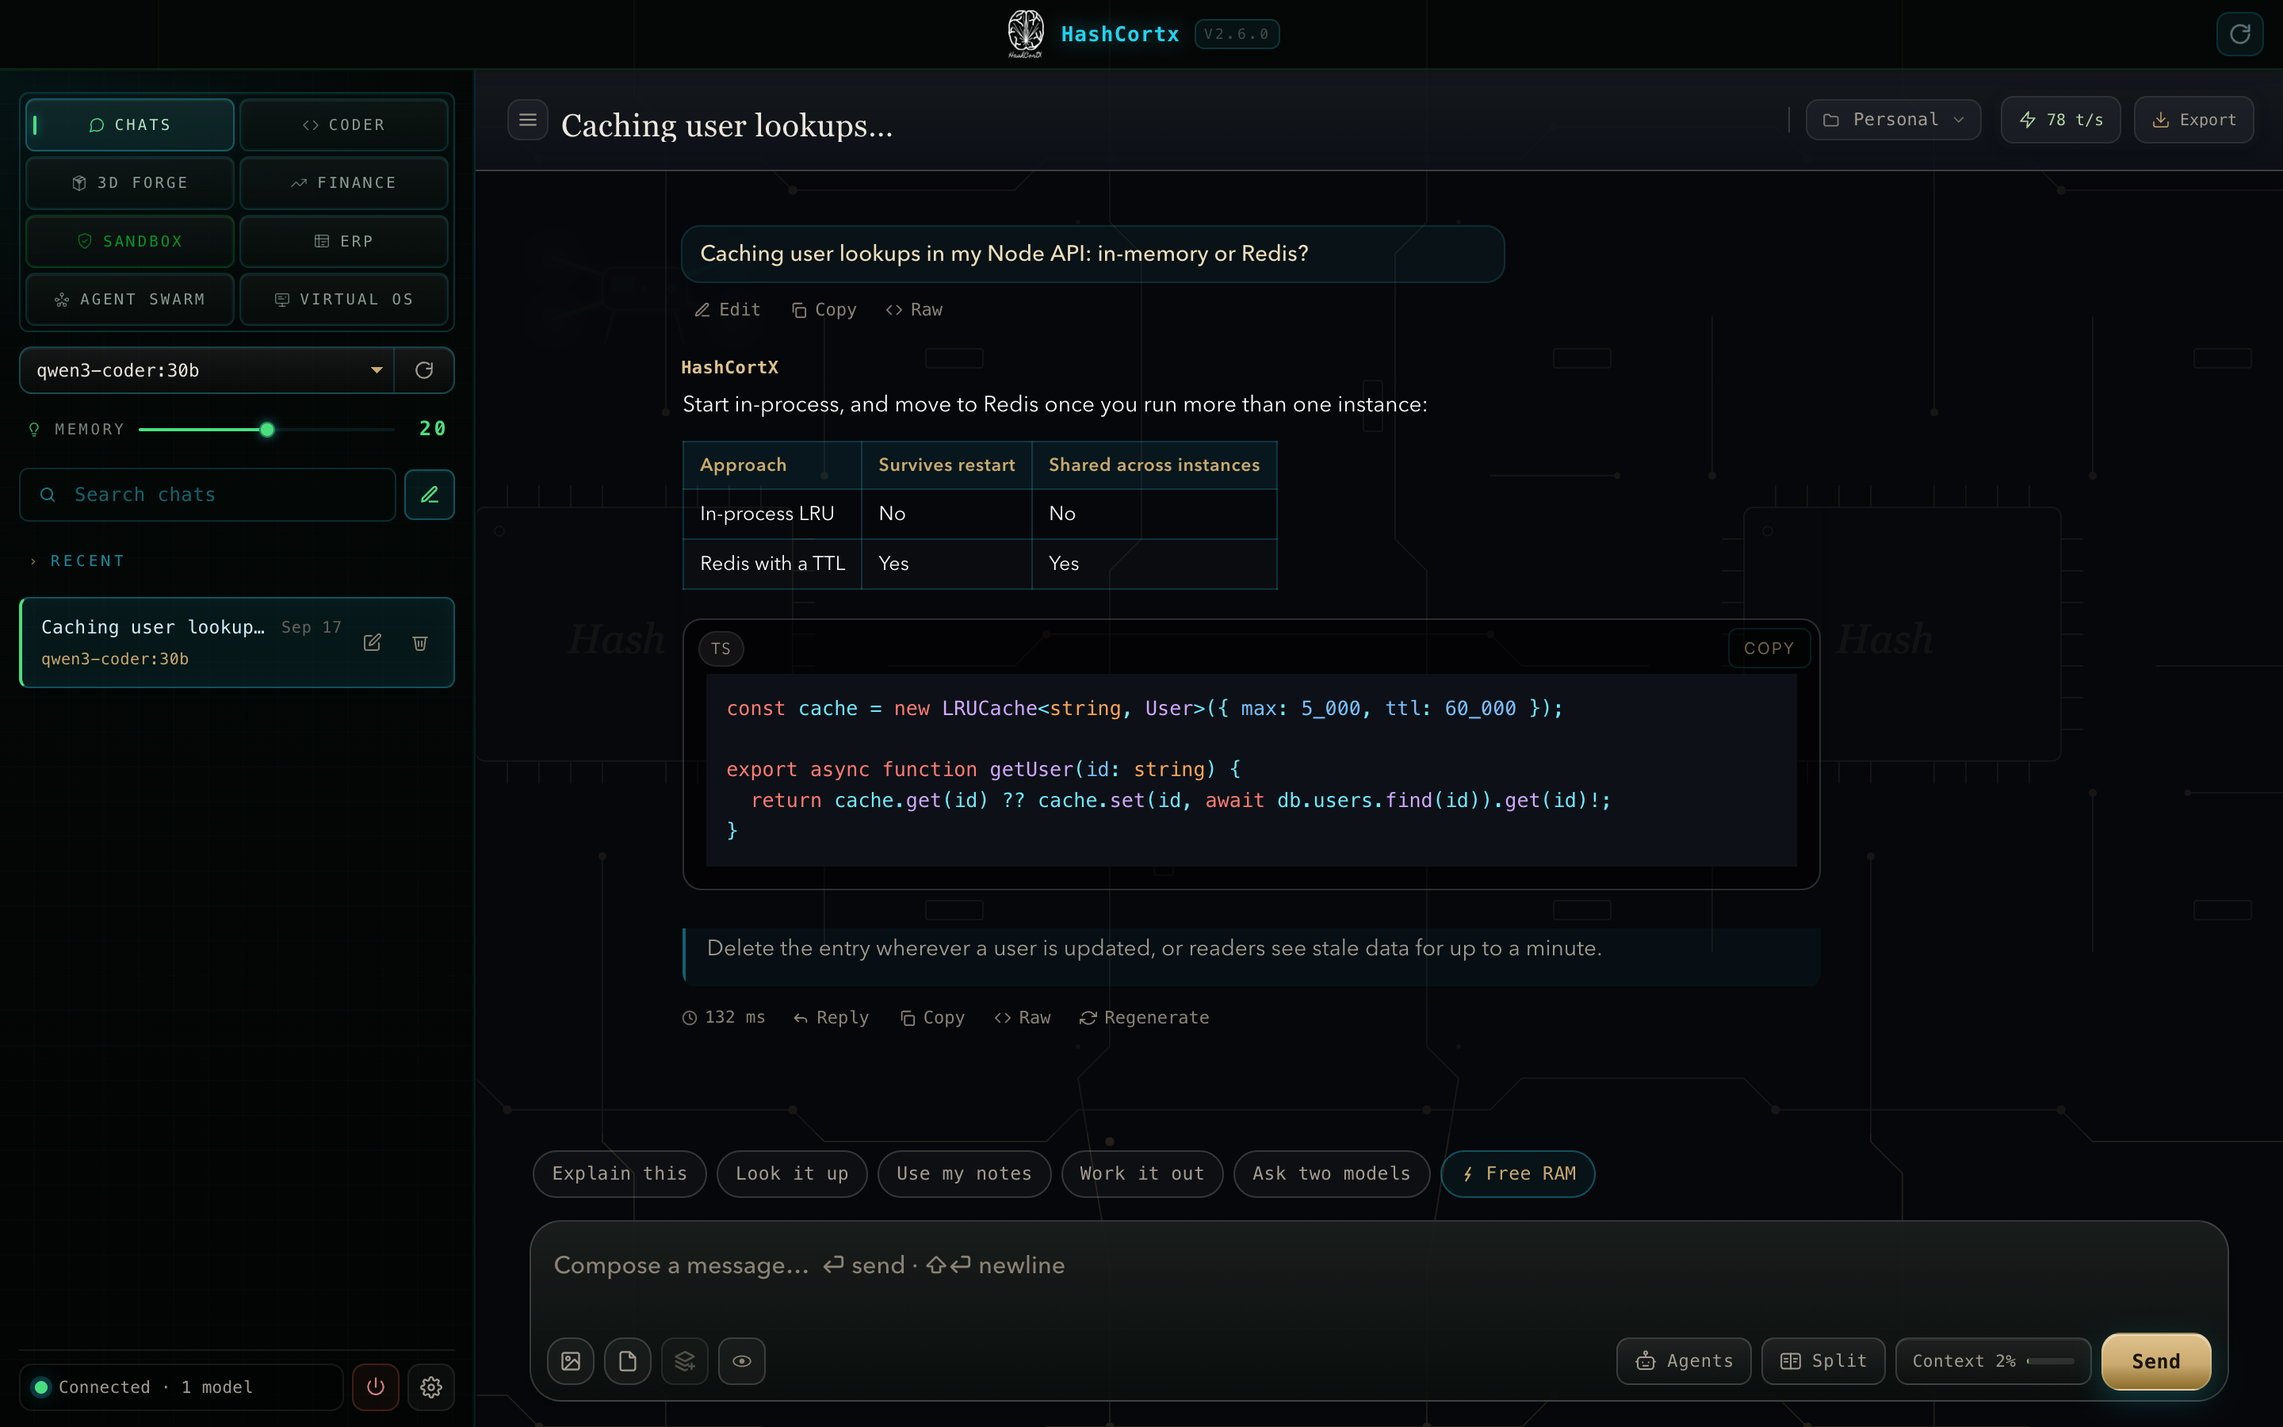
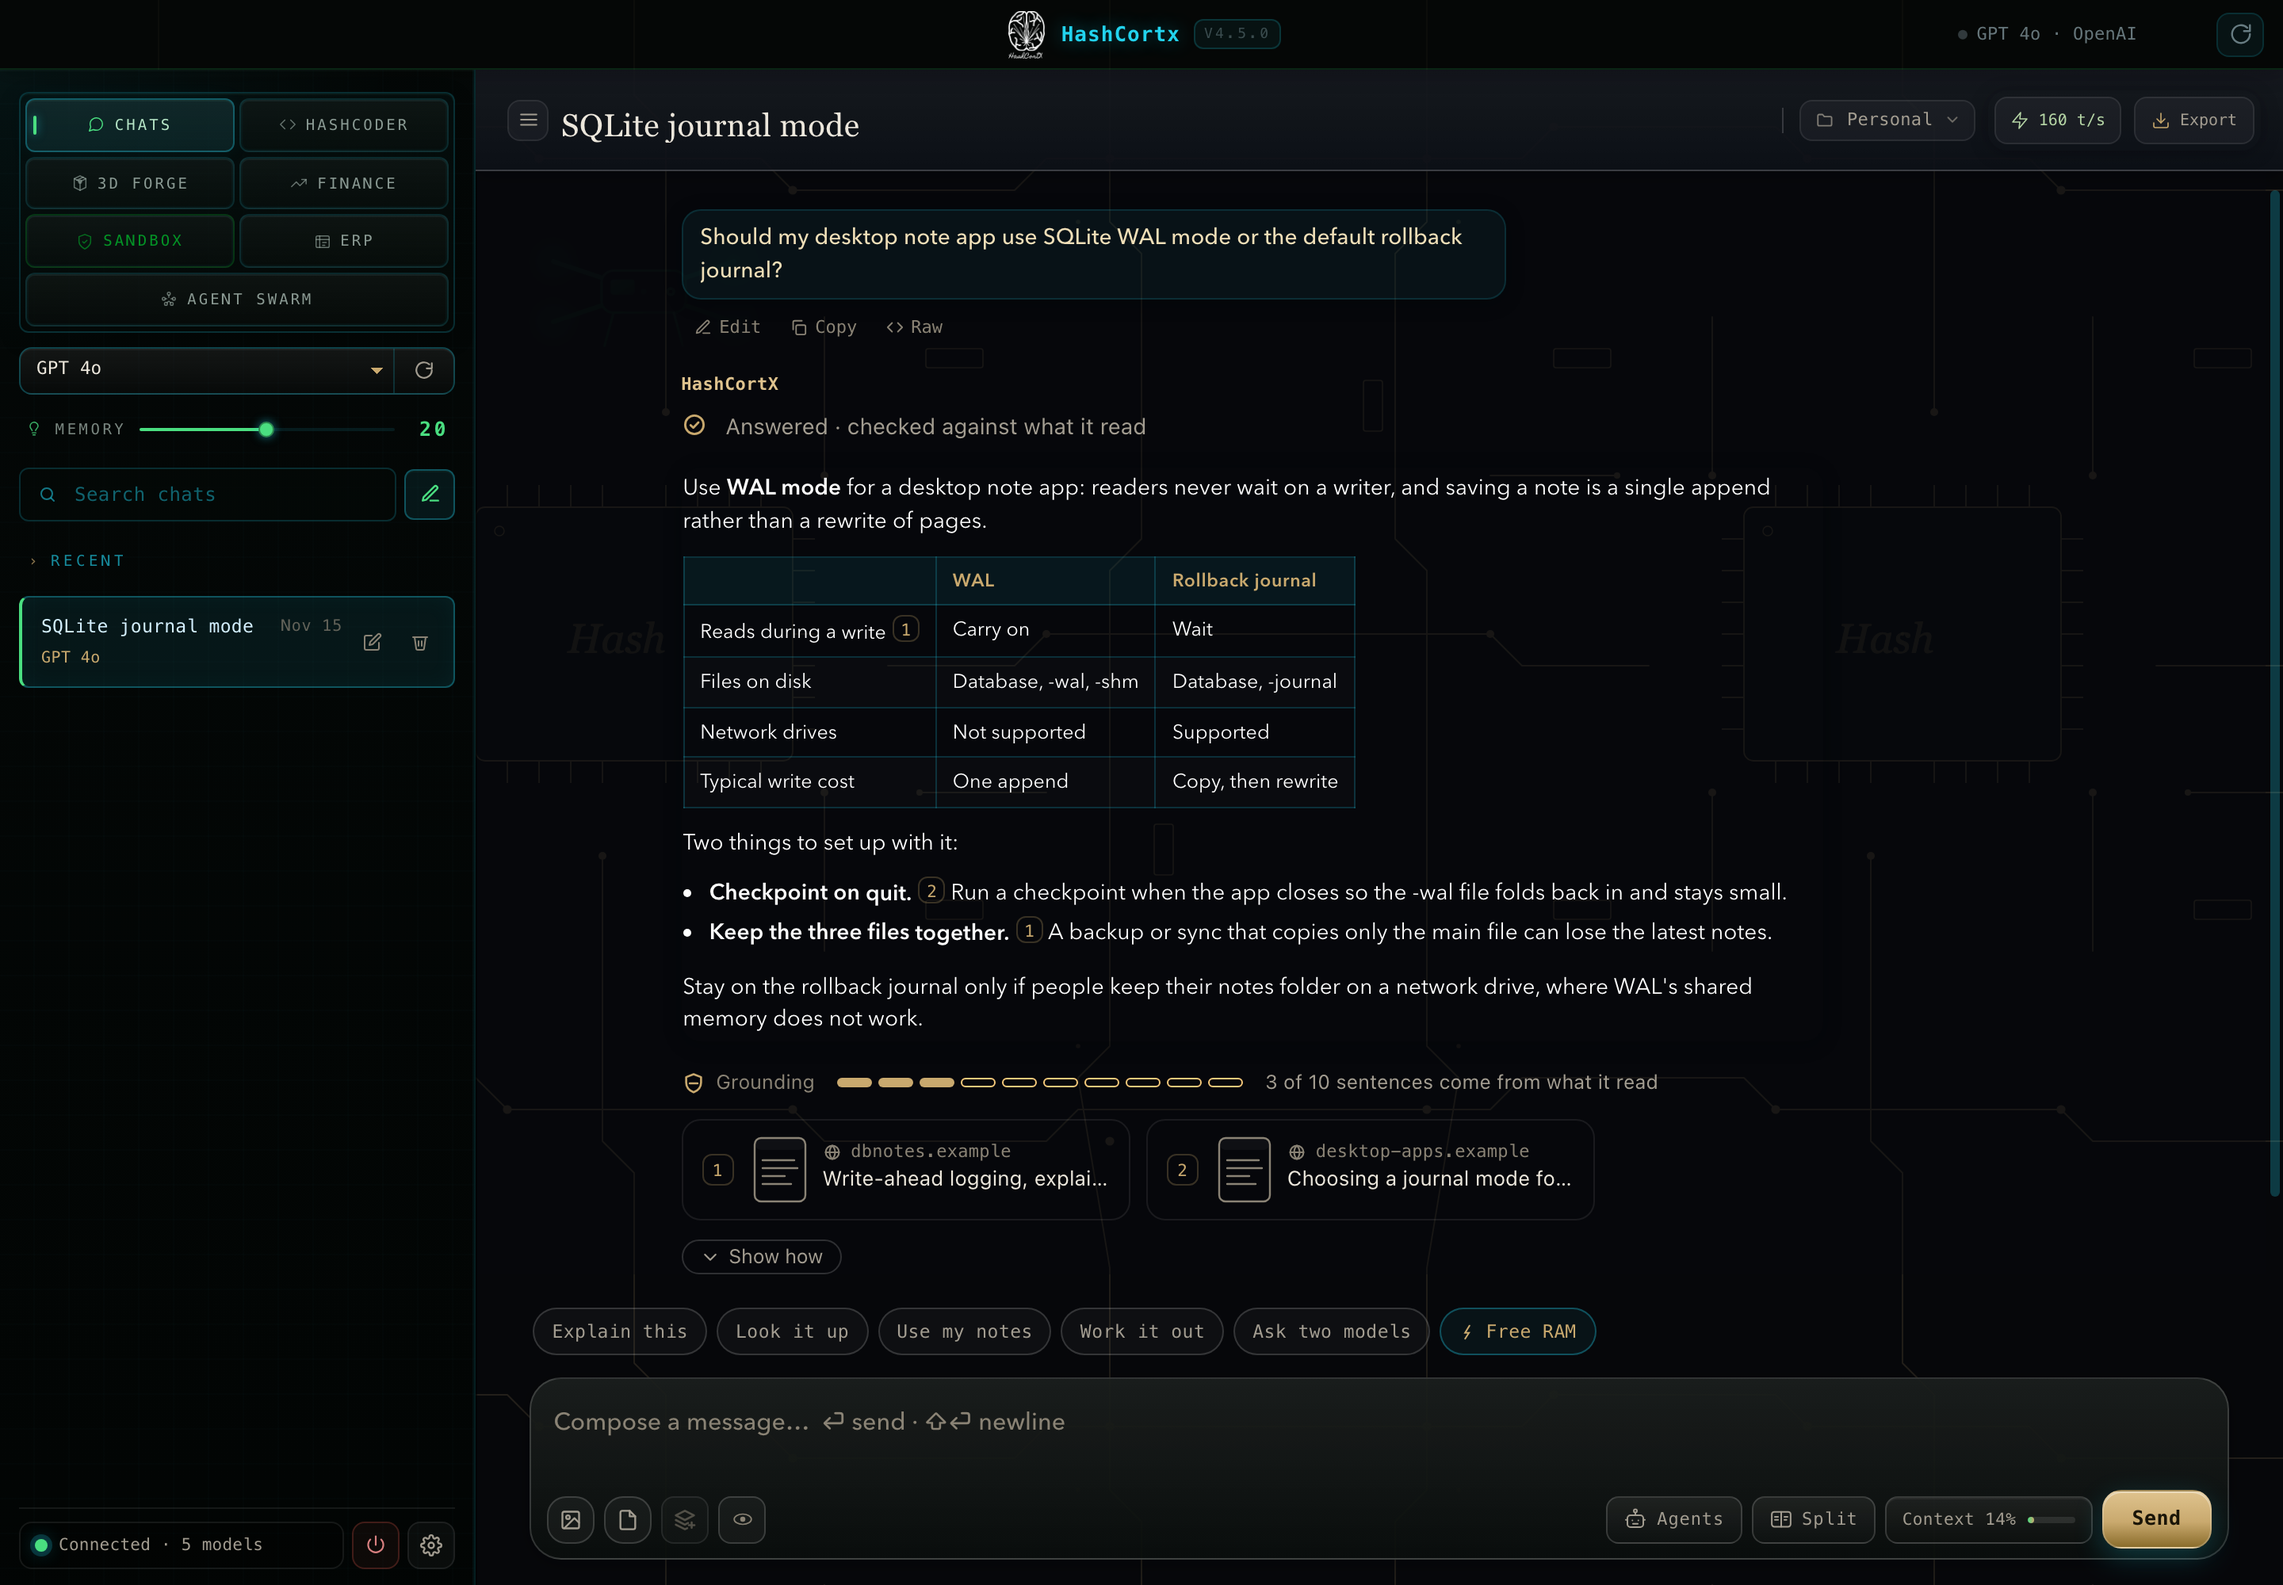
Show Chats and HashCoder in the README as the app is now, and drop the opening-screen picture
Developer: Seif Hashish
Project: HashCortX

Summary:
- A new Chats picture, under the workspaces table: an invented question answered by an agent that searched and read two invented pages, with its table, its source marks, how much of it comes from what it read, and the two sources as cards.
- The HashCoder picture is a run of the app on the bench's scripted stand-in model, taken with the bench's --shot: its run signal, the edit with Keep and Undo, and the receipt. Its description says the model was a stand-in.
- The opening-screen picture is gone from the top of the README and from the repository.
- The HashCoder list says it keeps out of the person's own folders unless asked, and that a folder it makes becomes the project, as the code now does.

Verification:
- Both pictures taken from src/ served over HTTP in headless Chrome: Chats with a stand-in model and invented pages, HashCoder with node scripts/bench/coder/run.mjs --smoke --shot. No model was run; no browser left running.
- npm run check: 13,166 passed, 0 failed

diff --git a/README.md b/README.md
@@ -34,10 +34,6 @@ on your keys and your machine. No backend, no telemetry, no account.
 
 <br>
 
-<img src="docs/assets/screenshots/hero.png" alt="HashCortx 3.0 on opening: the app mark, and a start-up list for the runtime, model routing, the interface, the agents and the content security policy" width="100%">
-
-<br>
-
 | | |
 |---|---|
 | **Nothing phones home** | No analytics, no crash reports, no update checks. Every connection is for work you asked for, and [SECURITY.md](docs/SECURITY.md) lists each address. |
@@ -97,6 +93,8 @@ From the Hash ecosystem: your music, your Mac's vital signs and its notices in t
 | **Finance** | Statements, CSV, PDF and XLSX read into figures, every total and chart worked out by the app |
 | **Sandbox** | Agents that inspect untrusted code for malware, prompt injection and suspicious logic |
 
+<img src="docs/assets/screenshots/chat.png" alt="Chats: a question about SQLite journal modes answered by an agent that searched the web and read two pages, a comparison table with a numbered source mark after the sentences each source backs, how many sentences come from what it read, and the two sources it read as cards" width="100%">
+
 Plus **Agents**, nine built-in specialists and a builder for your own, **Split**, one prompt answered by two models side by side, and **Connections**: a business system you connect over MCP (Odoo, GitHub, Stripe and Supabase are ready-made), whose key never reaches a page or a model and whose every change asks you first. [How](docs/SECURITY.md#connected-systems).
 
 ## HashCoder and its harness
@@ -114,9 +112,10 @@ It works on your real files. Every edit is a diff with **Keep** and **Undo**, te
 - **Works in your repository.** Its own git tools read the status and the changes, commit when you ask, signed as your commits are, and make a branch, push or pull only after asking you each time, never forced.
 - **Offers a way on when it stops short.** A run that ends stuck, at its limit or with parts of a several-part request still open offers once more with a hint, or a fresh start on a stronger model you have, from your request and what it already did.
 - **Hands off part of a big task, if you switch it on.** New, and not yet proven on real runs, so it is off until you turn it on: a strong model can start sub-agents on the same model, and any model at full size can when your request asks for them, one that reads and reports or one that changes only the files it is given, and HashCortX checks each report before the model reads it.
+- **Keeps out of your own folders.** It does not list or search your home folder, Desktop, Documents or Downloads unless your request asks it to look there, and a folder it makes for your request becomes the project.
 - **Asks as much as you choose.** Manual asks before every change and is where it starts; Accept edits writes project files freely; Auto adds a fixed list of read, search and check commands.
 
-<img src="docs/assets/screenshots/coder.png" alt="HashCoder: a run on a local model that added validation to a route, shown as a diff with Keep and Undo, with the passing test run said under the answer" width="100%">
+<img src="docs/assets/screenshots/coder.png" alt="HashCoder after a run on a scripted stand-in model: the request to make npm test pass, the run signal across its checking, reading, changing and checking phases, the answer, the edit to range.js with Keep and Undo, and the receipt saying npm test passed" width="100%">
 
 ## Your documents: a local knowledge base (RAG)
 
